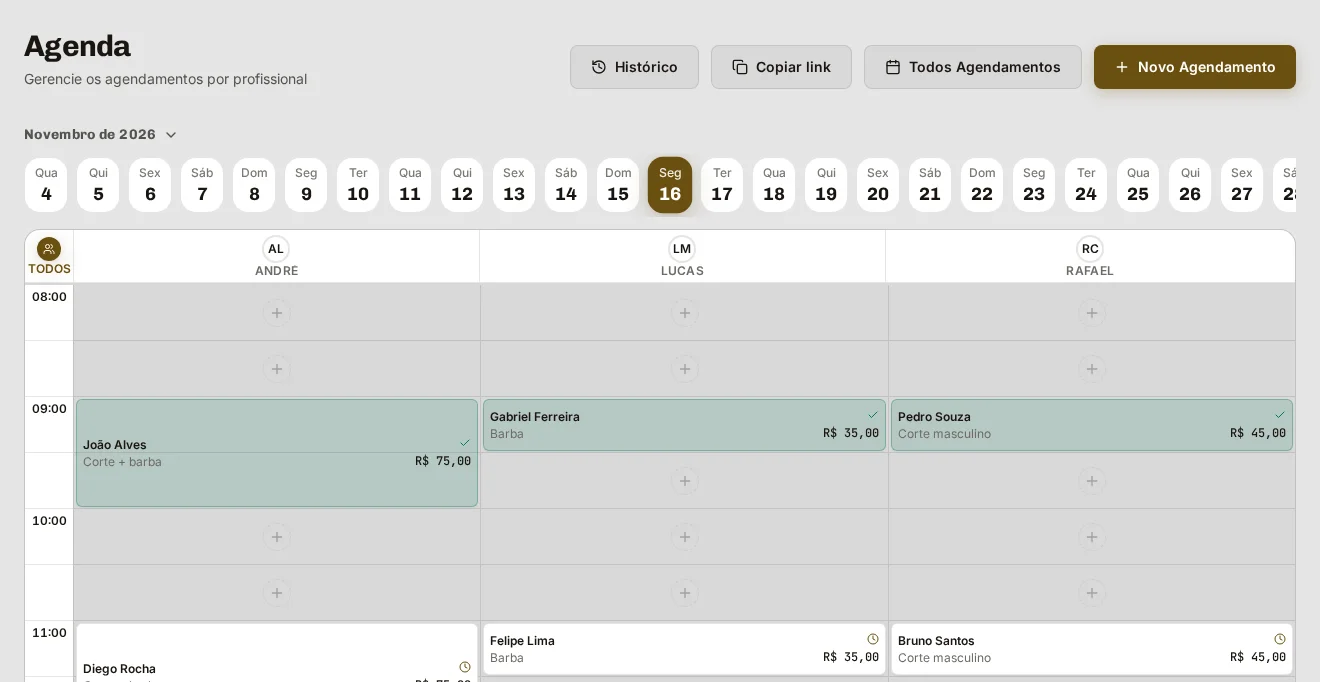
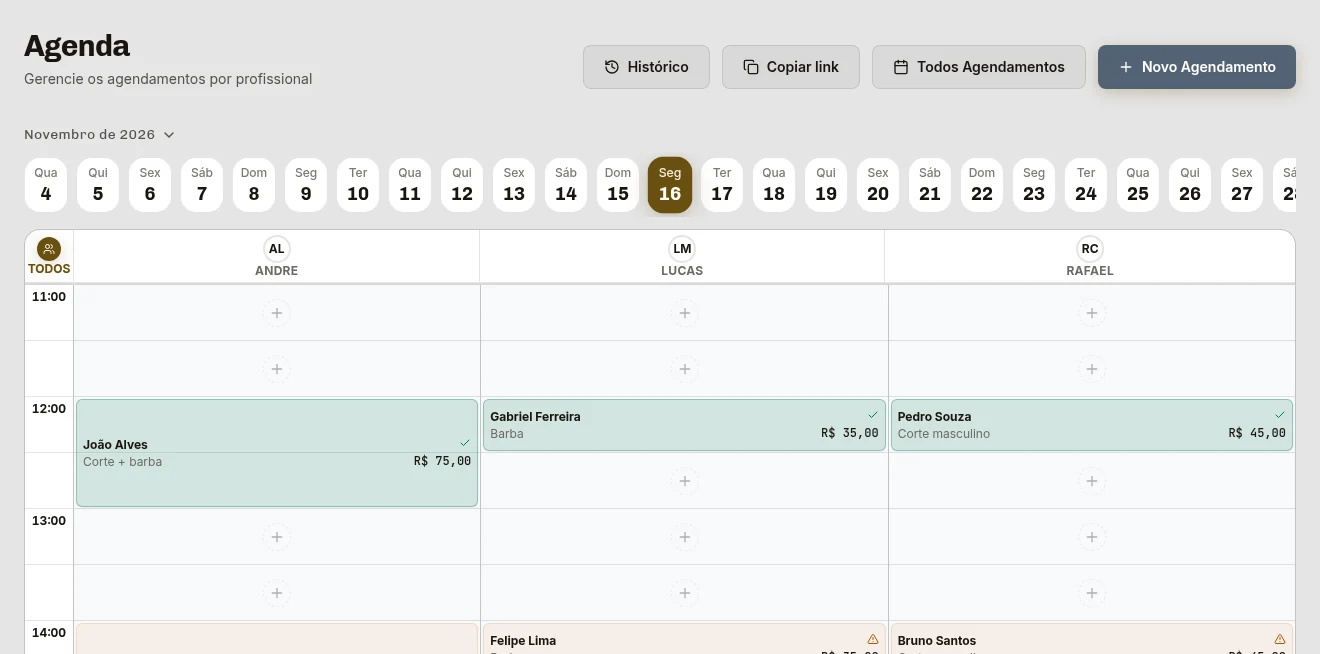
polimento visual r1: pôster, benefícios, casca da demo, escala tipográfica e acento slate

diff --git a/styles/landing.css b/styles/landing.css
@@ -7,9 +7,9 @@ html[data-surface=marketing] { scroll-padding-top:88px; }
 .landing button { font:inherit; cursor:pointer; }
 .landing :focus-visible { outline:2px solid #536174; outline-offset:5px; }
 .landing h1,.landing h2,.landing h3 { font-family:Chivo,sans-serif; font-weight:700; letter-spacing:-.035em; line-height:1.08; }
-.landing h1 { font-size:clamp(38px,4.1vw,59px); }
+.landing h1 { font-size:clamp(37px,4.1vw,59px); }
 .landing h1 span { color:#536174; }
-.landing h2 { font-size:clamp(34px,3.4vw,49px); }
+.landing h2 { font-size:clamp(32px,3.4vw,49px); }
 .landing h3 { font-size:clamp(28px,2.5vw,36px); }
 .landing p { color:var(--lp-muted); max-width:49ch; }
 .landing-wrap { max-width:1320px; width:calc(100% - 112px); margin-inline:auto; }
@@ -74,13 +74,13 @@ html[data-surface=marketing] { scroll-padding-top:88px; }
 .feature-1 .landing-feature-shot { background:#f0ece5; }
 .landing-team { display:grid; grid-template-columns:5fr 6fr; gap:100px; align-items:center; padding-top:72px; border-top:1px solid var(--lp-rule); margin-top:16px; }
 .landing-team>img { width:100%; height:500px; object-fit:cover; object-position:60%; }
-.landing-team h3 { margin:0 0 24px; font-size:clamp(34px,3.4vw,48px); }
+.landing-team h3 { margin:0 0 24px; font-size:clamp(32px,3.4vw,49px); }
 .landing-team p { margin:0 0 20px; }
 .landing-feature-rows a { border-bottom:1px solid var(--lp-rule); padding:18px 0; min-height:54px; display:flex; justify-content:space-between; font-size:15px; }
 .landing-feature-rows a:hover { color:#536174; padding-left:6px; transition:padding .2s; }
 .landing-close { background:#536174; color:#fff; padding:84px 0; }
 .landing-close>.landing-wrap { display:grid; grid-template-columns:1.4fr 1fr; gap:80px; align-items:center; }
-.landing-close h2 { margin:0; font-size:clamp(38px,4.5vw,65px); }
+.landing-close h2 { margin:0; font-size:clamp(32px,3.4vw,49px); }
 .landing-close p { color:#fff; margin:0 0 24px; }
 .landing-button-light { background:#fff; color:#344154!important; }
 .landing-button-light:hover { background:#e7eaee; }
@@ -118,7 +118,6 @@ html[data-surface=marketing] { scroll-padding-top:88px; }
  .landing-links.is-open a,.landing-links.is-open button { font-size:20px; text-align:left; }
  .landing-hero { padding:36px 0 0; }
  .landing-hero-head { display:block; animation-duration:.4s; }
- .landing h1 { font-size:37px; line-height:1.08; }
  .landing-hero-lead { padding:0; margin-top:24px; }
  .landing-hero-lead p { font-size:15px; line-height:1.65; margin-bottom:22px; }
  .landing-hero-lead>.landing-button { width:100%; }
@@ -128,7 +127,6 @@ html[data-surface=marketing] { scroll-padding-top:88px; }
  .landing-frame-bar span:nth-child(2) { display:none; }
  .landing-frame-bar svg { margin-left:auto; }
  .landing-product-stage img { width:100%; }
- .landing h2 { font-size:34px; }
  .landing-story { padding:64px 0; }
  .landing-story-grid { display:flex; flex-direction:column; align-items:stretch; gap:32px; }
  .landing-story-copy h2 { margin-bottom:24px; }
@@ -141,20 +139,19 @@ html[data-surface=marketing] { scroll-padding-top:88px; }
  .landing-tabs { display:flex; }
  .landing-tabs button { width:50%; }
  .landing-demo-frame { height:630px; }
- .landing-demo-poster img { width:100%; height:100%; object-fit:cover; object-position:top; }
+ .landing-demo-frame:has(.landing-demo-poster) { height:auto; aspect-ratio:390 / 568; }
+ .landing-demo-poster img { width:100%; height:auto; display:block; }
  .landing-demo-foot { flex-direction:column; align-items:flex-start; gap:6px; }
  .landing-features { padding:64px 0; }
  .landing-features>.landing-wrap>h2 { margin-bottom:36px; }
  .landing-feature { display:flex; flex-direction:column; gap:24px; align-items:stretch; padding:36px 0; }
- .landing-feature h3 { font-size:29px; }
- .landing-feature-shot { height:250px; }
- .landing-feature-shot img { min-width:630px; }
+ .landing-feature-shot { height:auto; }
+ .landing-feature-shot img { width:100%; }
  .landing-team { display:flex; flex-direction:column; gap:32px; padding-top:36px; }
  .landing-team>img { height:340px; }
- .landing-team h3 { font-size:34px; }
  .landing-close { padding:56px 0; }
  .landing-close>.landing-wrap { display:block; }
- .landing-close h2 { font-size:39px; margin-bottom:28px; }
+ .landing-close h2 { margin-bottom:28px; }
  .landing-close .landing-button { width:100%; }
  .landing-faq { padding:64px 0; }
  .landing-faq-grid { display:block; }
@@ -177,5 +174,5 @@ html[data-surface=marketing] { scroll-padding-top:88px; }
 .landing-team-proof img { width:100%; display:block; }
 @media(max-width:760px) { .landing-team-proof { height:230px; } .landing-team-proof img { min-width:560px; } }
 .landing-team>div { min-width:0; width:100%; }
-@media(min-width:1201px) { .landing-hero-head { grid-template-columns:1.75fr 1fr; gap:52px; } .landing h1 { font-size:56px; } }
+@media(min-width:1201px) { .landing-hero-head { grid-template-columns:1.75fr 1fr; gap:52px; } }
 @media(max-width:760px) { .landing-team { align-items:stretch; } .landing-operation-tabs { gap:14px; } }

diff --git a/styles/demo.css b/styles/demo.css
@@ -10,10 +10,15 @@ html[data-mode=light] .demo-niches a[aria-current],html[data-mode=light] .demo-n
 .demo-toolbar { display:flex; justify-content:space-between; align-items:center; gap:16px; max-width:1320px; margin:auto; padding:22px 24px 14px; }
 .demo-toolbar strong { display:block; font:700 20px Chivo,sans-serif; }
 .demo-toolbar span { display:block; color:var(--color-text-secondary); font-size:13px; margin-top:5px; }
+.demo-toolbar .demo-badge { display:inline-block; margin:4px 0 0; font-size:12px; line-height:1; }
 .demo-toolbar button,.demo-tour button { border:1px solid var(--color-border); }
 .demo-nav { display:flex; gap:4px; overflow-x:auto; max-width:1320px; margin:auto; padding:0 24px 16px; border-bottom:1px solid var(--color-border); }
+.demo-nav-wrap { position:relative; max-width:1320px; margin:auto; }
 .demo-nav a { white-space:nowrap; }
 .demo-content { max-width:1320px; margin:auto; padding:24px; }
+.demo-content [data-testid="agenda-resource-grid"] [data-agenda-slot]:not([data-off-hours]) { background:#f8f9fa; }
+.demo-content #btn-new-appointment { background:#536174; color:#fff; border-color:#536174; }
+.demo-content #btn-new-appointment:hover { background:#425064; }
 .demo-loading { padding:48px 24px; }
 .demo-tour { max-width:1272px; margin:16px auto 0; padding:20px; background:var(--color-surface); border-radius:12px; display:flex; align-items:center; gap:24px; }
 .demo-tour span { color:var(--color-text-secondary); font-size:13px; }
@@ -24,17 +29,19 @@ html[data-mode=light] .demo-niches a[aria-current],html[data-mode=light] .demo-n
 .demo-shell a:hover,.demo-shell button:hover { filter:brightness(.9); }
 .demo-shell :focus-visible { outline:2px solid var(--demo-accent); outline-offset:3px; }
 @media(max-width:640px) {
- .demo-header { gap:10px; padding:12px 16px; }
- .demo-brand { font-size:24px; }
+ .demo-header { gap:6px; padding:8px 12px; }
+ .demo-brand { font-size:21px; }
  .demo-niches { margin-left:auto; }
- .demo-niches a { padding:10px; }
- .demo-signup { width:100%; text-align:center; }
- .demo-toolbar { padding:18px 16px 12px; align-items:flex-start; }
- .demo-toolbar strong { font-size:18px; }
- .demo-toolbar span { font-size:12px; max-width:180px; }
- .demo-toolbar button { max-width:120px; padding:8px 12px; font-size:13px; }
- .demo-nav { padding:0 16px 12px; }
- .demo-content { padding:20px 12px; }
+ .demo-niches a { padding:10px 7px; font-size:12px; }
+ .demo-signup { padding:12px 8px; font-size:12px; white-space:nowrap; }
+ .demo-toolbar { padding:12px 16px 8px; align-items:center; }
+ .demo-toolbar strong { display:inline; font-size:16px; }
+ .demo-toolbar .demo-badge { margin:0 0 0 6px; padding:3px 6px; }
+ .demo-toolbar span { font-size:12px; margin-top:2px; }
+ .demo-toolbar button { padding:8px 10px; font-size:12px; white-space:nowrap; }
+ .demo-nav { padding:0 32px 8px 16px; }
+ .demo-nav-wrap::after { content:""; position:absolute; right:0; top:0; bottom:9px; width:32px; pointer-events:none; background:linear-gradient(to right,transparent,var(--color-bg)); }
+ .demo-content { padding:12px; }
  .demo-tour { margin:12px; flex-direction:column; align-items:flex-start; gap:12px; }
  .demo-tour-actions { flex-wrap:wrap; }
 }

diff --git a/pages/Landing.tsx b/pages/Landing.tsx
@@ -85,7 +85,7 @@ export const Landing = () => {
       <section id="produto" className="landing-features">
         <div className="landing-wrap wrap">
           <h2>Do primeiro horário<br />ao fechamento do caixa.</h2>
-          {features.map((feature, index) => <article className={`landing-feature feature-${index}`} key={feature.title}><div className="landing-feature-copy"><h3>{feature.title}</h3><p>{feature.text}</p><a className="landing-text-link" href={`/#/demo/barber/${feature.route}`}>Explorar {index === 0 ? 'a agenda' : index === 1 ? 'o agendamento' : 'o financeiro'} <ArrowRight size={18} aria-hidden="true" /></a></div><div className="landing-feature-shot"><img src={`/landing/${feature.image}-1440.webp`} alt={feature.alt} loading="lazy" width="1440" height="790" /></div></article>)}
+          {features.map((feature, index) => <article className={`landing-feature feature-${index}`} key={feature.title}><div className="landing-feature-copy"><h3>{feature.title}</h3><p>{feature.text}</p><a className="landing-text-link" href={`/#/demo/barber/${feature.route}`}>Explorar {index === 0 ? 'a agenda' : index === 1 ? 'o agendamento' : 'o financeiro'} <ArrowRight size={18} aria-hidden="true" /></a></div><div className="landing-feature-shot"><picture><source media="(max-width: 760px)" srcSet={`/landing/${feature.image}-mobile.webp`} /><img src={`/landing/${feature.image}-1440.webp`} alt={feature.alt} loading="lazy" width="1440" height="790" /></picture></div></article>)}
           <div className="landing-team"><img src="/landing/craft-800.webp" srcSet="/landing/craft-800.webp 800w, /landing/craft-1600.webp 1600w" sizes="(max-width: 760px) 100vw, 45vw" loading="lazy" width="800" height="1000" alt="Profissional trabalhando no cabelo de uma cliente, em fotografia de banco" /><div><h3>Tempo, equipe<br />e trabalho valorizados.</h3><p>Acompanhe as comissões de cada profissional e o faturamento por hora de cadeira. Para quem chega sem marcar, organize a fila em uma tela própria.</p><div className="landing-operation-tabs" role="group" aria-label="Gestão da equipe"><button aria-pressed={operation === 'performance'} onClick={() => setOperation('performance')}>Hora de cadeira</button><button aria-pressed={operation === 'team'} onClick={() => setOperation('team')}>Equipe</button><button aria-pressed={operation === 'queue'} onClick={() => setOperation('queue')}>Fila</button></div><a className="landing-team-proof" href={`/#/demo/barber/${operation === 'performance' ? 'financeiro/performance' : operation === 'team' ? 'configuracoes/equipe' : 'fila'}`}><img src={`/landing/${operation}-1440.webp`} width="1440" height="790" loading="lazy" alt={`Tela real de ${operation === 'performance' ? 'hora de cadeira' : operation === 'team' ? 'equipe e comissões' : 'fila de espera'} do AgendiX, com dados fictícios`} /></a></div></div>
         </div>
       </section>

diff --git a/pages/Demo.tsx b/pages/Demo.tsx
@@ -48,7 +48,6 @@ export const Demo = () => {
     <div className="demo-shell">
       <header className="demo-header">
         <Link className="demo-brand" to="/">AgendiX</Link>
-        <span className="demo-badge">Simulação</span>
         <div className="demo-niches" aria-label="Tipo de negócio">
           <Link aria-current={niche === 'barber' ? 'page' : undefined} to="/demo/barber/agenda">Barbearia</Link>
           <Link aria-current={niche === 'beauty' ? 'page' : undefined} to="/demo/beauty/agenda">Salão</Link>
@@ -56,10 +55,10 @@ export const Demo = () => {
         <a className="demo-signup" href={niche === 'beauty' ? '/#/register?type=beauty' : '/#/register'}>Crie sua conta grátis</a>
       </header>
       <div className="demo-toolbar">
-        <div><strong>{niche === 'beauty' ? 'Studio Aurora' : 'Barbearia Corte Fino'}</strong><span>Dados fictícios · reinicia ao recarregar</span></div>
+        <div><strong>{niche === 'beauty' ? 'Studio Aurora' : 'Barbearia Corte Fino'}</strong><span className="demo-badge">Simulação</span><span>Dados fictícios · reinicia ao recarregar</span></div>
         <button onClick={() => goTour(0)}>Fazer tour guiado</button>
       </div>
-      <nav className="demo-nav" aria-label="Telas da simulação">{screens.map(screen => <Link key={screen.path} to={`${base}/${screen.path}`} aria-current={location.pathname === `${base}/${screen.path}` ? 'page' : undefined}>{screen.label}</Link>)}</nav>
+      <div className="demo-nav-wrap"><nav className="demo-nav" aria-label="Telas da simulação">{screens.map(screen => <Link key={screen.path} to={`${base}/${screen.path}`} aria-current={location.pathname === `${base}/${screen.path}` ? 'page' : undefined}>{screen.label}</Link>)}</nav></div>
       {tour !== null && <aside className="demo-tour" aria-label="Tour guiado" aria-live="polite">
         <div><span>Passo {tour + 1} de {screens.length}</span><h2>{screens[tour].title}</h2><p>{screens[tour].text}</p></div>
         <div className="demo-tour-actions">{tour > 0 && <button onClick={() => goTour(tour - 1)}>Anterior</button>}<button onClick={() => tour < screens.length - 1 ? goTour(tour + 1) : setTour(null)}>{tour < screens.length - 1 ? 'Próximo passo' : 'Concluir tour'}</button><button onClick={() => setTour(null)}>Fechar tour</button></div>
